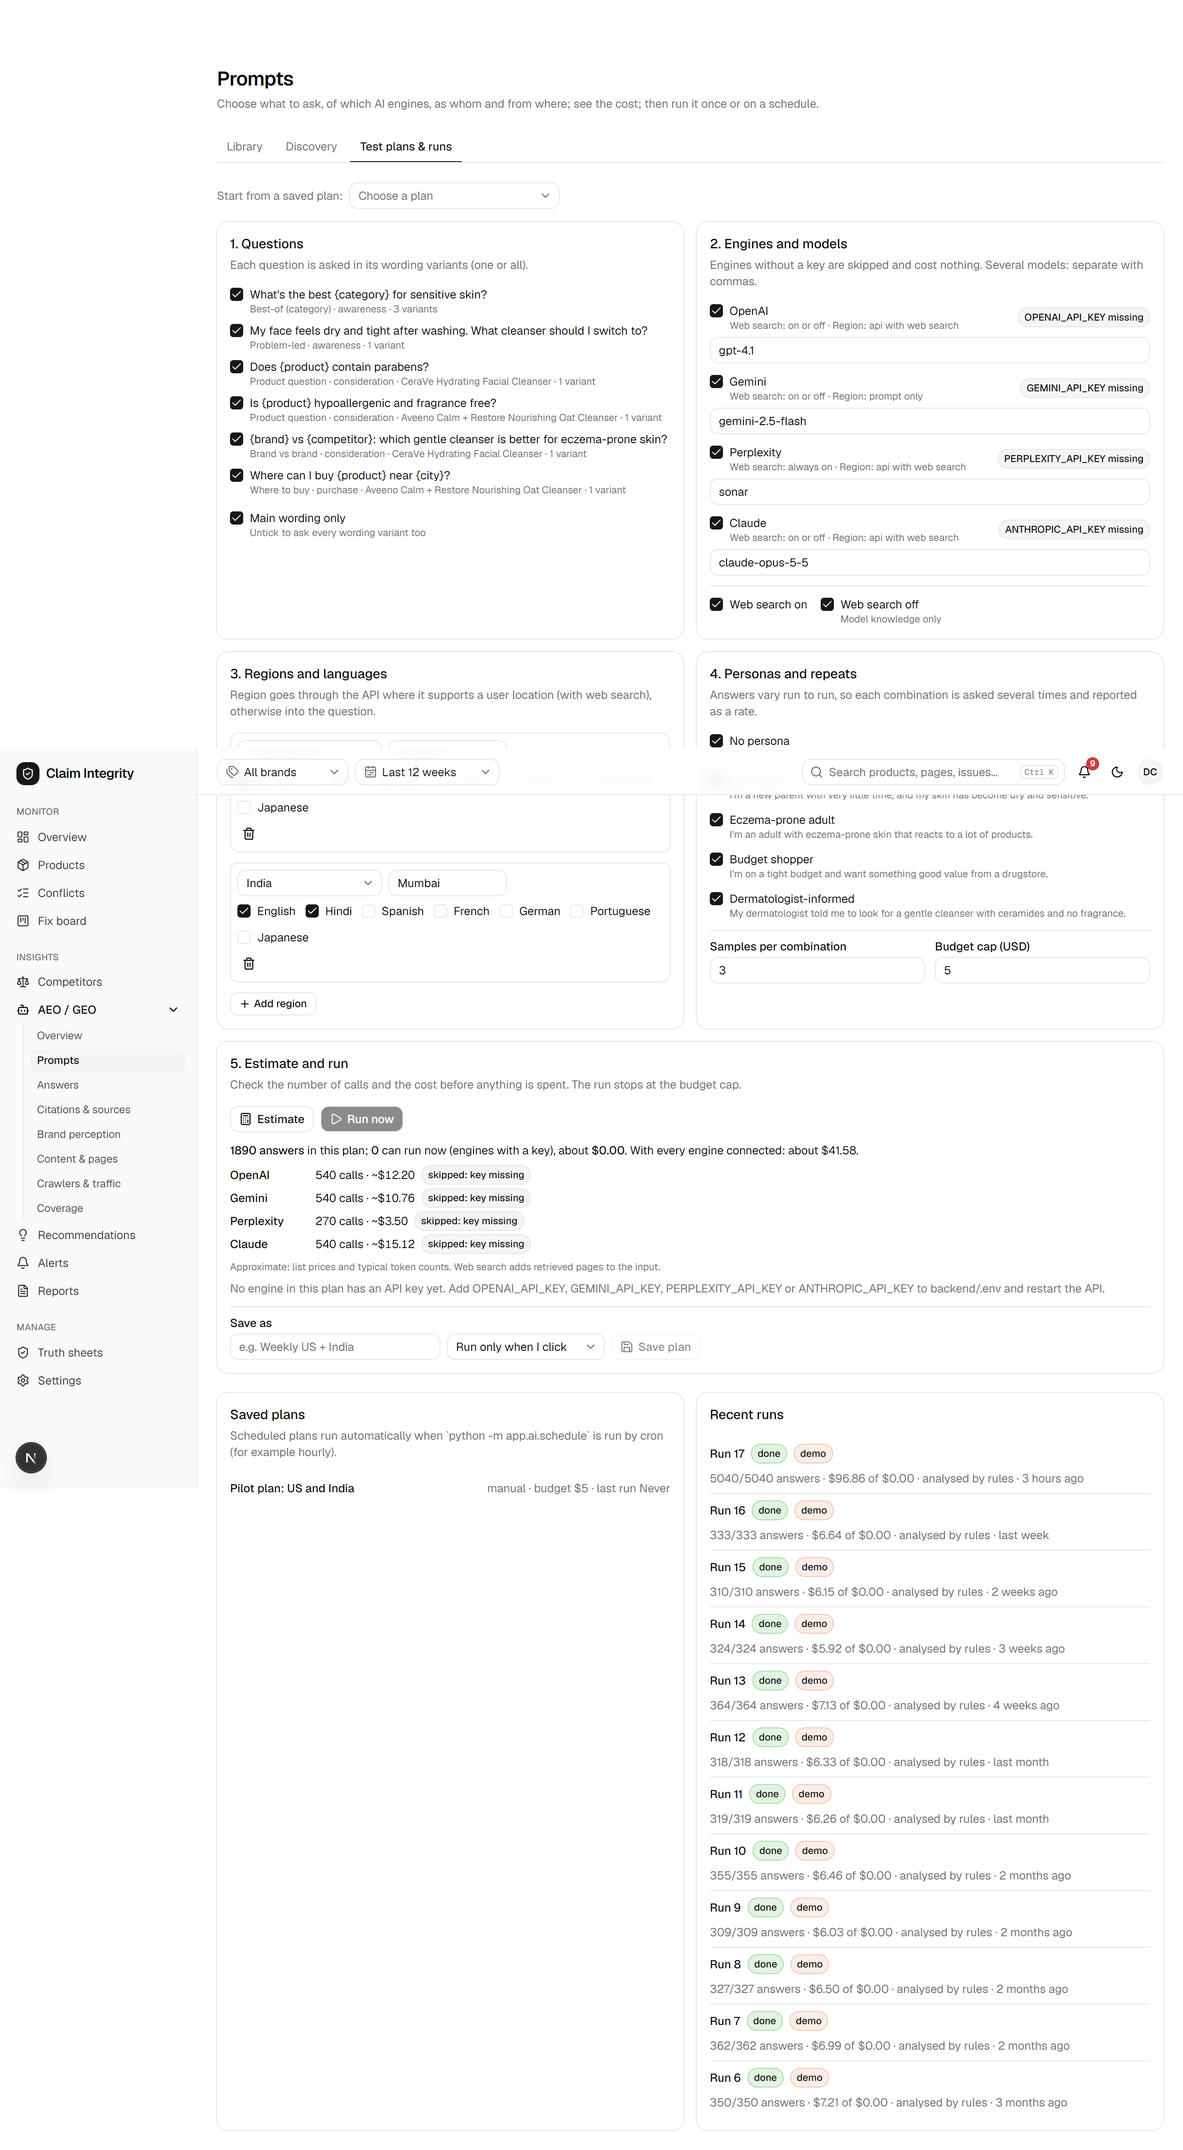
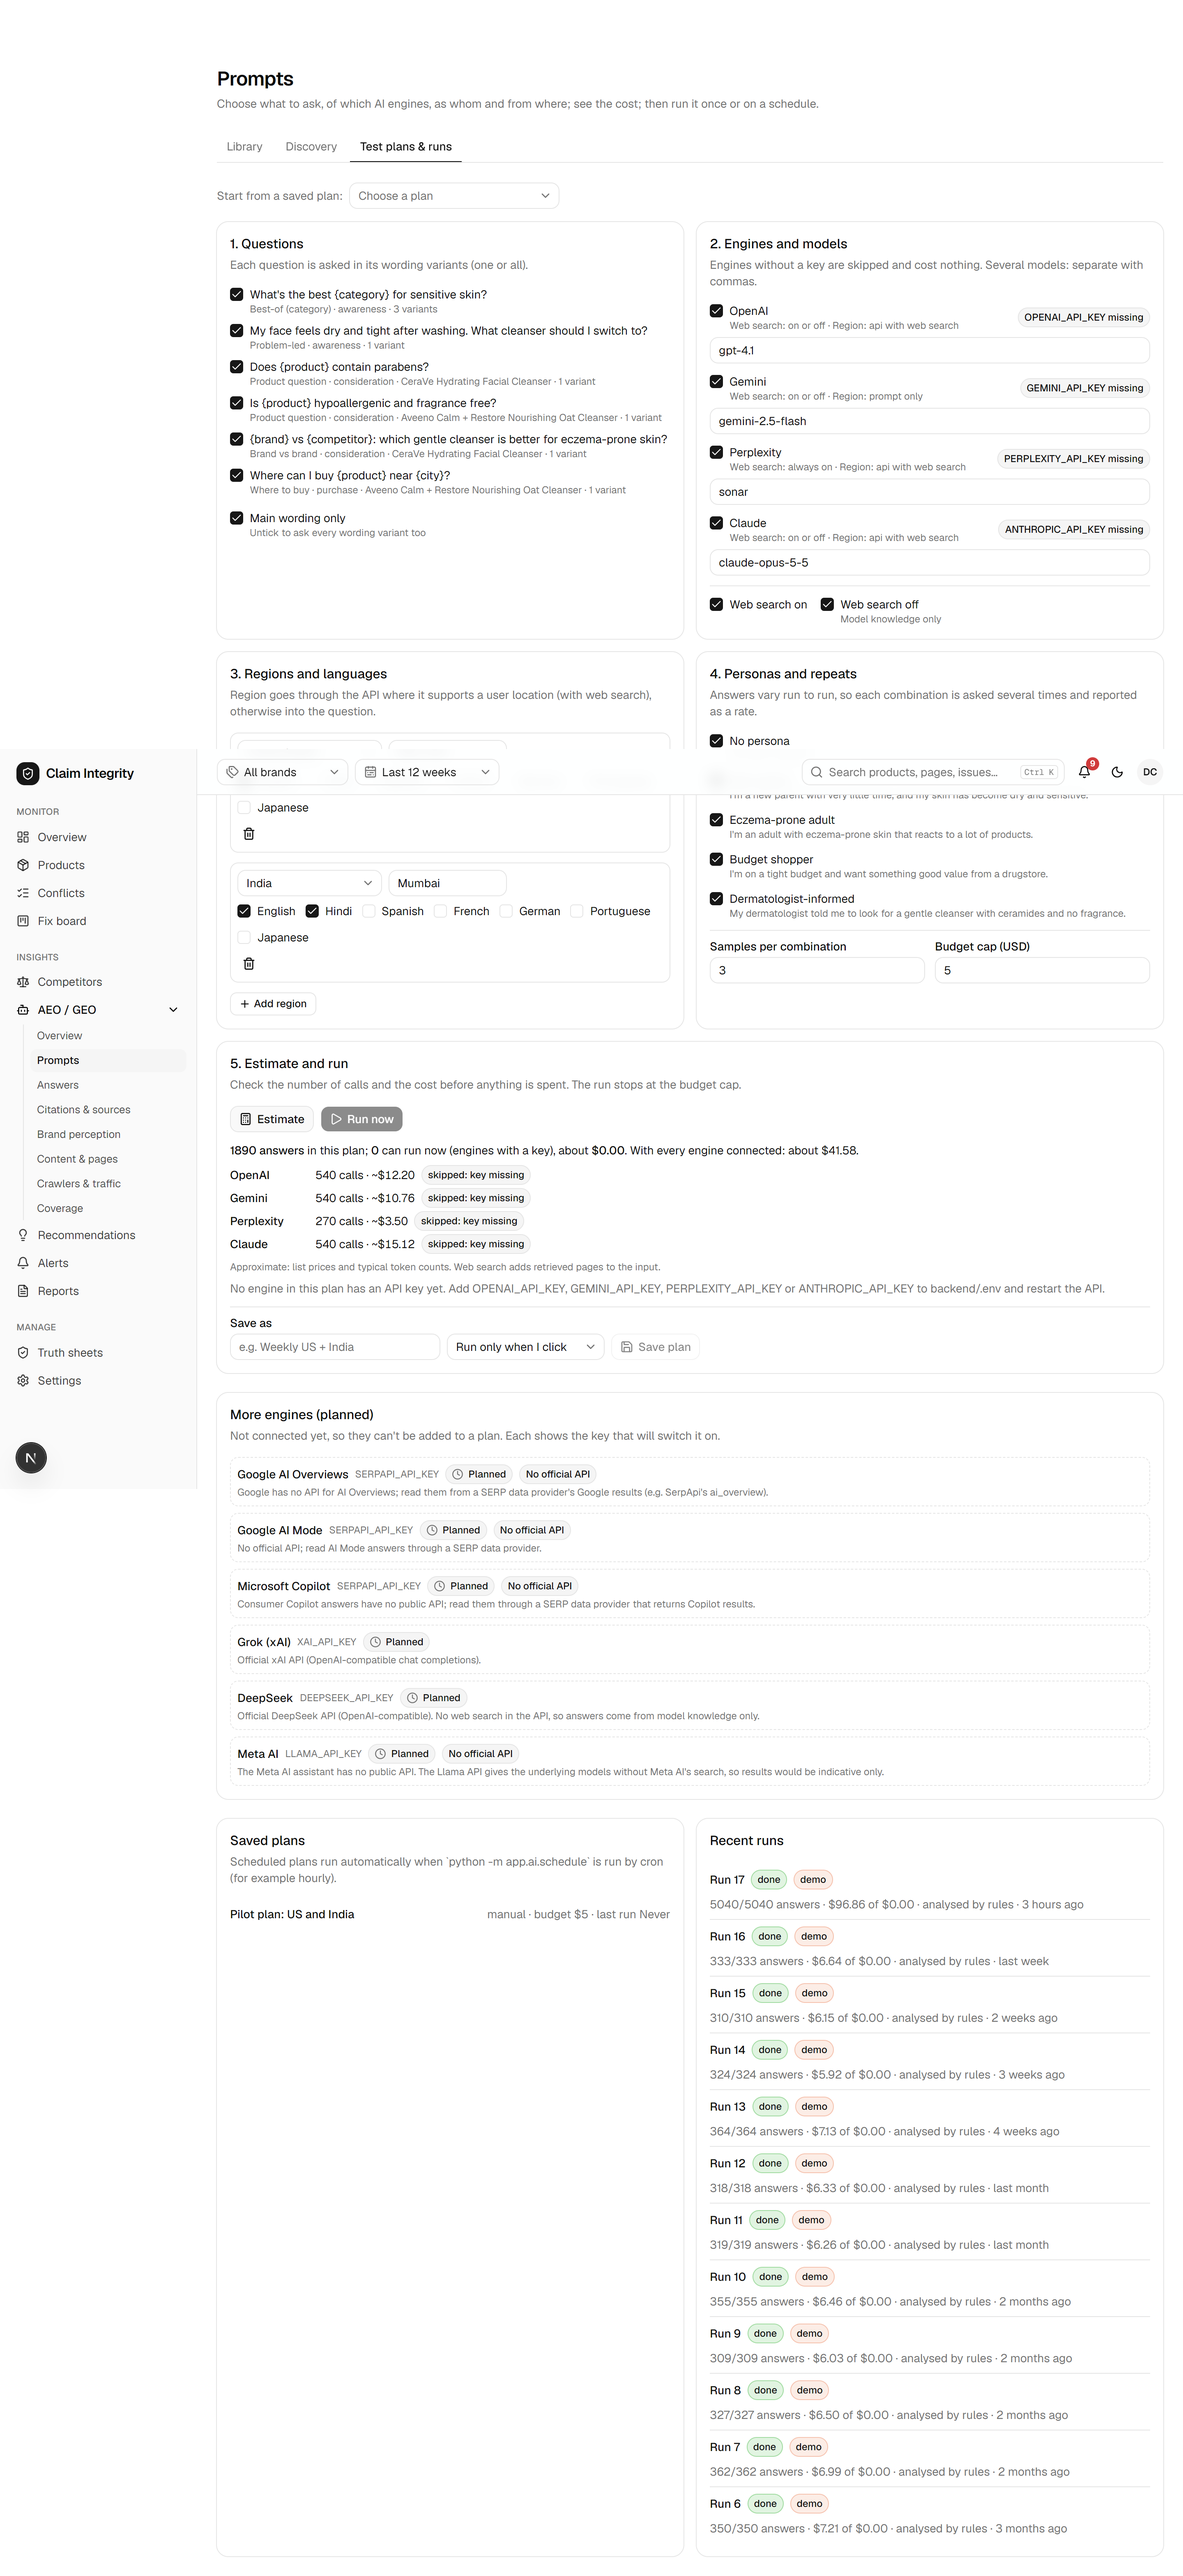
Planned AI engines as key-gated placeholders
- PLANNED list (kept apart from ENGINES, so never run, estimated or given
  demo answers): Google AI Overviews, Google AI Mode and Copilot via a SERP
  data provider (SERPAPI_API_KEY; no official API), Grok (XAI_API_KEY),
  DeepSeek (DEEPSEEK_API_KEY), Meta AI (LLAMA_API_KEY; indicative only).
- /ai/engines/planned: status re-read from .env per request ("planned" or
  "key set, connector coming"); never returns key values.
- Shown as dashed pills under the engine strip on AEO / GEO > Overview, as a
  "More engines (planned)" card on Prompts > Test plans & runs, and in
  Settings > Workspace. Keys documented in .env.example.

diff --git a/frontend/src/app/aeo/page.tsx b/frontend/src/app/aeo/page.tsx
@@ -4,6 +4,7 @@ import { Suspense } from "react";
 import { AiFilters } from "@/components/ai/ai-filters";
 import { MentionTrend, RankChart } from "@/components/ai/ai-charts";
 import { AeoScoreSection } from "@/components/aeo/aeo-score";
+import { PlannedPills } from "@/components/aeo/planned-engines";
 import { AwaitingEngines } from "@/components/ai/awaiting-engines";
 import { EngineStrip } from "@/components/ai/engine-strip";
 import { HeatmapControls } from "@/components/ai/heatmap-controls";
@@ -13,7 +14,7 @@ import { Pill, VerdictBadge } from "@/components/status";
 import { Alert, AlertDescription, AlertTitle } from "@/components/ui/alert";
 import { Card, CardContent, CardDescription, CardHeader, CardTitle } from "@/components/ui/card";
 import { Table, TableBody, TableCell, TableHead, TableHeader, TableRow } from "@/components/ui/table";
-import { type AeoScore, aiFilterParams, COUNTRY_LABEL, type EngineStatus, type Insights, type Library, pct, rateRange } from "@/lib/ai";
+import { type AeoScore, aiFilterParams, COUNTRY_LABEL, type EngineStatus, type Insights, type Library, pct, type PlannedEngine, rateRange } from "@/lib/ai";
 import { serverGet } from "@/lib/api";
 import { SERIES } from "@/lib/chart-colors";
 import { displayValue } from "@/lib/format";
@@ -38,11 +39,12 @@ export default function AeoOverviewPage({ searchParams }: PageProps<"/aeo">) {
 
 async function Overview({ searchParams }: { searchParams: Promise<SP> }) {
   const sp = await searchParams;
-  const [ins, engines, lib, score] = await Promise.all([
+  const [ins, engines, lib, score, planned] = await Promise.all([
     serverGet<Insights>("/ai/insights", aiFilterParams(sp)),
     serverGet<EngineStatus[]>("/ai/engines"),
     serverGet<Library>("/ai/library"),
     serverGet<AeoScore>("/ai/score", aiFilterParams(sp)),
+    serverGet<PlannedEngine[]>("/ai/engines/planned"),
   ]);
   const regions = [...new Set(ins.heatmap.map((h) => h.region))].sort();
   const own = ins.brands.filter((b) => b.is_own);
@@ -66,6 +68,7 @@ async function Overview({ searchParams }: { searchParams: Promise<SP> }) {
 
       <div className="flex flex-col gap-3">
         <EngineStrip modes={ins.engines} statuses={engines} />
+        <PlannedPills planned={planned} />
         <AwaitingEngines modes={ins.engines} />
         <AiFilters personas={lib.personas} regions={regions.length ? regions : ["US", "IN"]} />
       </div>

diff --git a/frontend/src/app/aeo/prompts/plan/page.tsx b/frontend/src/app/aeo/prompts/plan/page.tsx
@@ -6,7 +6,8 @@ import { LoadingBlock, TimeAgo } from "@/components/common";
 import { PageHeader } from "@/components/page-header";
 import { Pill } from "@/components/status";
 import { Card, CardContent, CardDescription, CardHeader, CardTitle } from "@/components/ui/card";
-import type { AiRunRow, EngineStatus, Library, PlanConfig } from "@/lib/ai";
+import { PlannedList } from "@/components/aeo/planned-engines";
+import type { AiRunRow, EngineStatus, Library, PlanConfig, PlannedEngine } from "@/lib/ai";
 import { serverGet } from "@/lib/api";
 
 export const metadata: Metadata = { title: "AEO test plans & runs" };
@@ -24,15 +25,25 @@ export default function PlanPage() {
 }
 
 async function Plan() {
-  const [lib, engines, saved, runs] = await Promise.all([
+  const [lib, engines, saved, runs, planned] = await Promise.all([
     serverGet<Library>("/ai/library"),
     serverGet<EngineStatus[]>("/ai/engines"),
     serverGet<{ id: number; name: string; config: PlanConfig; budget_usd: number; schedule: string; last_run_at: string | null }[]>("/ai/configs"),
     serverGet<AiRunRow[]>("/ai/runs"),
+    serverGet<PlannedEngine[]>("/ai/engines/planned"),
   ]);
   return (
     <div className="flex flex-col gap-6">
       <PlanBuilder lib={lib} engines={engines} saved={saved} />
+      <Card id="planned-engines">
+        <CardHeader>
+          <CardTitle>More engines (planned)</CardTitle>
+          <CardDescription>Not connected yet, so they can&apos;t be added to a plan. Each shows the key that will switch it on.</CardDescription>
+        </CardHeader>
+        <CardContent>
+          <PlannedList planned={planned} />
+        </CardContent>
+      </Card>
       <div className="grid gap-4 lg:grid-cols-2">
         <Card>
           <CardHeader>

diff --git a/frontend/src/app/settings/page.tsx b/frontend/src/app/settings/page.tsx
@@ -1,4 +1,4 @@
-import { Bot, KeyRound, Mail, Server } from "lucide-react";
+import { Bot, Clock, KeyRound, Mail, Server } from "lucide-react";
 import type { Metadata } from "next";
 import { Suspense } from "react";
 import { CarryLink, LoadingBlock, TimeAgo } from "@/components/common";
@@ -8,7 +8,7 @@ import { Pill } from "@/components/status";
 import { TeamManager } from "@/components/team-manager";
 import { Card, CardContent, CardDescription, CardHeader, CardTitle } from "@/components/ui/card";
 import { serverGet } from "@/lib/api";
-import type { EngineStatus } from "@/lib/ai";
+import type { EngineStatus, PlannedEngine } from "@/lib/ai";
 import type { Team } from "@/lib/team";
 import type { Brand } from "@/lib/types";
 
@@ -123,7 +123,7 @@ async function JobsCard() {
 }
 
 async function EngineRows() {
-  const engines = await serverGet<EngineStatus[]>("/ai/engines");
+  const [engines, planned] = await Promise.all([serverGet<EngineStatus[]>("/ai/engines"), serverGet<PlannedEngine[]>("/ai/engines/planned")]);
   return (
     <>
       {engines.map((e) => (
@@ -136,6 +136,18 @@ async function EngineRows() {
             </>
           }
           status={<Pill tone={e.status === "live" ? "good" : "neutral"}>{e.status === "live" ? "Live" : "Key missing"}</Pill>}
+        />
+      ))}
+      {planned.map((p) => (
+        <Row
+          key={p.engine}
+          icon={Clock}
+          label={
+            <span title={p.how}>
+              {p.label} <span className="text-xs text-muted-foreground">({p.env_key})</span>
+            </span>
+          }
+          status={<Pill tone="neutral">{p.key_set ? "Key set, connector coming" : "Planned"}</Pill>}
         />
       ))}
     </>

diff --git a/frontend/src/components/aeo/planned-engines.tsx b/frontend/src/components/aeo/planned-engines.tsx
@@ -1,0 +1,40 @@
+import { Clock } from "lucide-react";
+import { Pill } from "@/components/status";
+import type { PlannedEngine } from "@/lib/ai";
+
+/** Planned engines as dashed pills, for the engine strip. */
+export function PlannedPills({ planned }: { planned: PlannedEngine[] }) {
+  return (
+    <ul className="flex flex-wrap gap-2" aria-label="Planned engines">
+      {planned.map((p) => (
+        <li key={p.engine}>
+          <Pill tone="neutral" icon={Clock} className="border-dashed" title={`${p.how} Key: ${p.env_key}`}>
+            {p.label}
+            <span className="text-muted-foreground">{p.key_set ? "key set, coming" : "planned"}</span>
+          </Pill>
+        </li>
+      ))}
+    </ul>
+  );
+}
+
+/** Planned engines with how each will connect and which key switches it on. */
+export function PlannedList({ planned }: { planned: PlannedEngine[] }) {
+  return (
+    <ul className="flex flex-col gap-2 text-sm">
+      {planned.map((p) => (
+        <li key={p.engine} className="flex flex-col gap-0.5 rounded-lg border border-dashed p-2">
+          <div className="flex flex-wrap items-center gap-2">
+            <span className="font-medium">{p.label}</span>
+            <span className="text-xs text-muted-foreground">{p.env_key}</span>
+            <Pill tone={p.key_set ? "warning" : "neutral"} icon={Clock}>
+              {p.key_set ? "Key set, connector coming" : "Planned"}
+            </Pill>
+            {!p.official_api && <Pill tone="neutral">No official API</Pill>}
+          </div>
+          <p className="text-xs text-muted-foreground">{p.how}</p>
+        </li>
+      ))}
+    </ul>
+  );
+}

diff --git a/frontend/src/lib/ai.ts b/frontend/src/lib/ai.ts
@@ -299,3 +299,14 @@ export interface ContentBrief {
   structure: { label: string; fix: string }[];
   markdown: string;
 }
+
+/** Engine listed but not connected yet; never run. */
+export interface PlannedEngine {
+  engine: string;
+  label: string;
+  env_key: string;
+  official_api: boolean;
+  how: string;
+  key_set: boolean;
+  status: string;
+}

diff --git a/backend/app/ai/planned.py b/backend/app/ai/planned.py
@@ -1,0 +1,64 @@
+"""AI engines that are planned but not connected yet (key-gated placeholders).
+
+They are listed so the team can see coverage gaps and which key will switch each one on.
+They are never run, never estimated, and never get demo answers (there is nothing real to
+imitate yet). When a connector is built it moves into app.ai.engines.ENGINES.
+"""
+
+from typing import Any
+
+from app.ai.engines import engine_env
+
+# id, label, env key, has an official answer API, how it will connect
+PLANNED: list[dict[str, Any]] = [
+    {
+        "engine": "google_aio",
+        "label": "Google AI Overviews",
+        "env_key": "SERPAPI_API_KEY",
+        "official_api": False,
+        "how": "Google has no API for AI Overviews; read them from a SERP data provider's Google results (e.g. SerpApi's ai_overview).",
+    },
+    {
+        "engine": "google_ai_mode",
+        "label": "Google AI Mode",
+        "env_key": "SERPAPI_API_KEY",
+        "official_api": False,
+        "how": "No official API; read AI Mode answers through a SERP data provider.",
+    },
+    {
+        "engine": "copilot",
+        "label": "Microsoft Copilot",
+        "env_key": "SERPAPI_API_KEY",
+        "official_api": False,
+        "how": "Consumer Copilot answers have no public API; read them through a SERP data provider that returns Copilot results.",
+    },
+    {
+        "engine": "grok",
+        "label": "Grok (xAI)",
+        "env_key": "XAI_API_KEY",
+        "official_api": True,
+        "how": "Official xAI API (OpenAI-compatible chat completions).",
+    },
+    {
+        "engine": "deepseek",
+        "label": "DeepSeek",
+        "env_key": "DEEPSEEK_API_KEY",
+        "official_api": True,
+        "how": "Official DeepSeek API (OpenAI-compatible). No web search in the API, so answers come from model knowledge only.",
+    },
+    {
+        "engine": "meta_ai",
+        "label": "Meta AI",
+        "env_key": "LLAMA_API_KEY",
+        "official_api": False,
+        "how": "The Meta AI assistant has no public API. The Llama API gives the underlying models without Meta AI's search, so results would be indicative only.",
+    },
+]
+
+
+def planned(env: dict[str, str] | None = None) -> list[dict[str, Any]]:
+    env = engine_env() if env is None else env
+    return [
+        {**p, "key_set": bool(env.get(p["env_key"])), "status": "key set, connector coming" if env.get(p["env_key"]) else "planned"}
+        for p in PLANNED
+    ]

diff --git a/backend/tests/test_aeo_planned.py b/backend/tests/test_aeo_planned.py
@@ -1,0 +1,21 @@
+"""Planned engines: listed with their key, never run or estimated."""
+
+from app.ai.engines import ENGINES
+from app.ai.planned import PLANNED, planned
+
+
+def test_planned_are_listed_not_run(client):
+    names = {p["engine"] for p in PLANNED}
+    assert {"google_aio", "google_ai_mode", "copilot", "grok", "deepseek", "meta_ai"} == names
+    assert not names & set(ENGINES)  # never part of runs, estimates or demo answers
+    rows = client.get("/ai/engines/planned").json()
+    assert {r["engine"] for r in rows} == names
+    assert all("key" not in r or r.get("key") is None for r in rows)  # the key value is never returned
+
+
+def test_key_switches_status():
+    off = {p["engine"]: p for p in planned(env={})}
+    on = {p["engine"]: p for p in planned(env={"XAI_API_KEY": "x", "SERPAPI_API_KEY": "y"})}
+    assert off["grok"]["status"] == "planned" and not off["grok"]["key_set"]
+    assert on["grok"]["status"] == "key set, connector coming"
+    assert on["google_aio"]["key_set"] and on["copilot"]["key_set"] and not on["deepseek"]["key_set"]

diff --git a/backend/app/api/ai.py b/backend/app/api/ai.py
@@ -11,6 +11,7 @@ from app.ai.discovery import discover
 from app.ai.engines import ENGINES, engine_env
 from app.ai.insights import insights, select_answers
 from app.ai.plan import LANGUAGE_NAMES, PlanConfig, estimate
+from app.ai.planned import planned
 from app.ai.runner import execute
 from app.ai.perception import ATTRIBUTES, perception
 from app.ai.score import aeo_score
@@ -44,6 +45,12 @@ def _org_id(session) -> int:
 
 
 # ---------------------------------------------------------------------------- engines
+
+
+@router.get("/engines/planned")
+def planned_engines() -> list[dict[str, Any]]:
+    """Engines planned but not connected yet, and the key that will switch each on (never the key itself)."""
+    return planned()
 
 
 @router.get("/engines")
